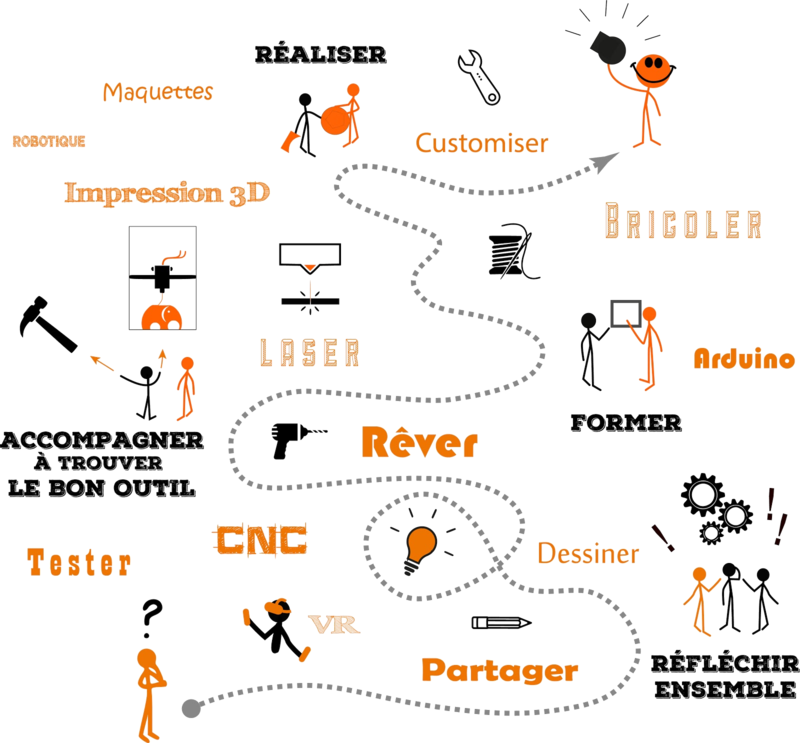
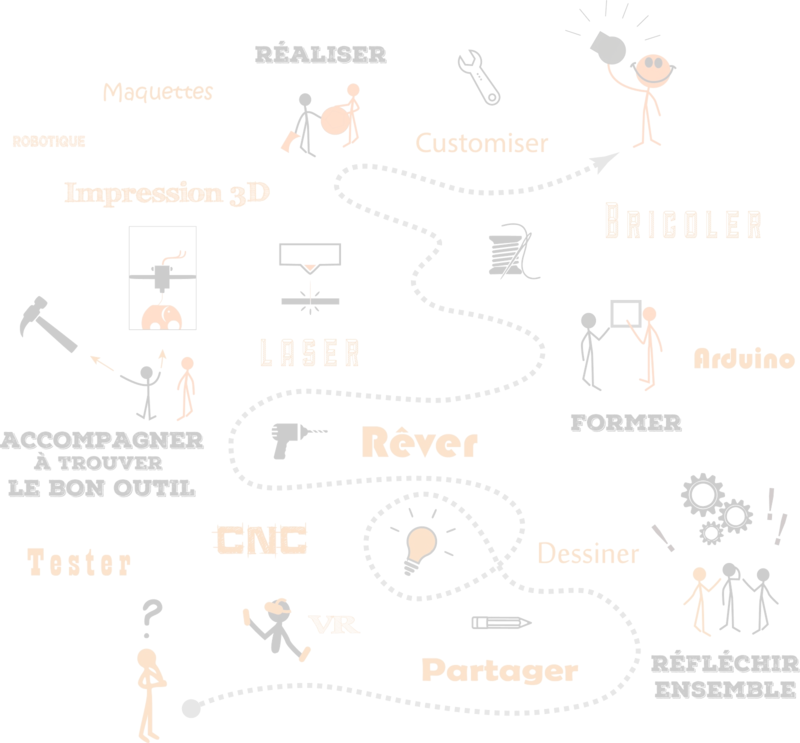
"qui sommes nous ?" slide revamp

diff --git a/css/creative.css b/css/creative.css
@@ -37,7 +37,8 @@ h6 {
   font-family: 'Open Sans', 'Helvetica Neue', Arial, sans-serif;
 }
 p {
-  font-size: 16px;
+  font-size: 20px;
+  font-weight: bold;
   line-height: 1.5;
   margin-bottom: 20px;
 }
@@ -140,7 +141,6 @@ section#about {
   background-repeat: no-repeat;
   background-size: cover;
   background-position: center center;
-  opacity: 0.6;
 
 }
 
